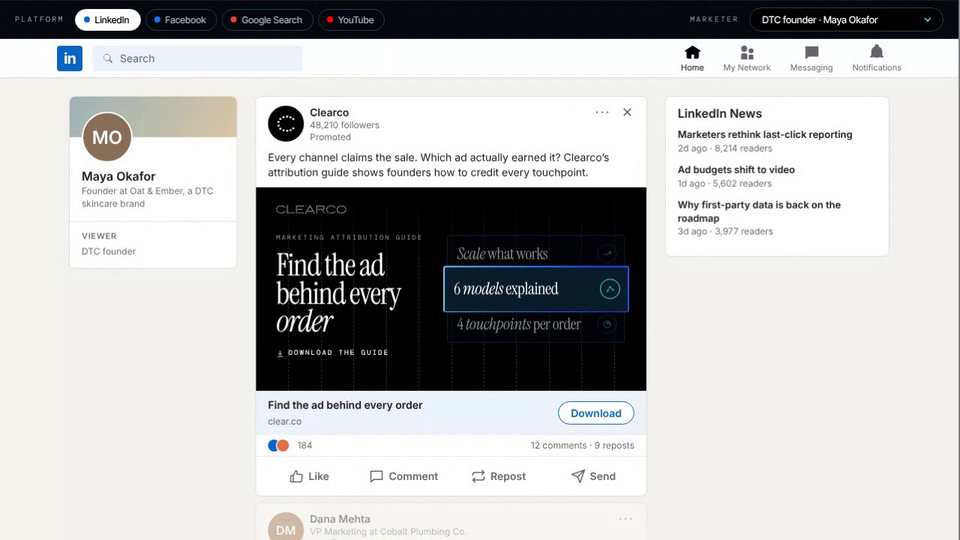
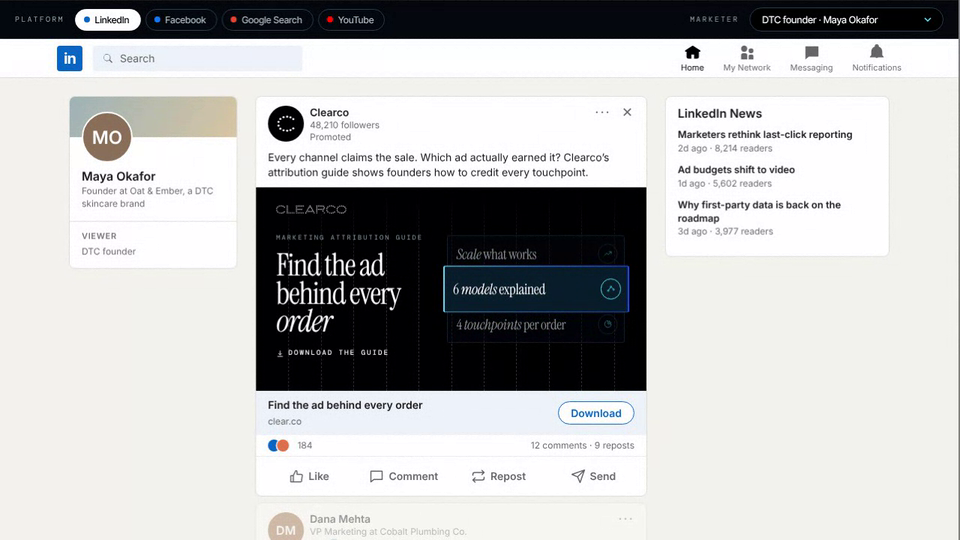
Clearco Paid Ad Pipeline: smoother rolodex (transform and opacity only), smaller value chip text
Claude-Session: https://claude.ai/code/session_01AHeBdxfESGkB61WPERPkmT

Changed region(s): [[0.4688, 0.4444, 0.6562, 0.563], [0.4688, 0.5926, 0.625, 0.6222]]

diff --git a/clearco-paid-ad-pipeline/index.html b/clearco-paid-ad-pipeline/index.html
@@ -59,26 +59,27 @@ nav.back span{color:#6e6e6e}nav.back b{font-weight:500;color:#fff;overflow:hidde
 .cr .go svg{width:2cqw;height:2cqw}
 .cr .stage{position:absolute;right:0;top:0;width:50cqw;height:100%;container-type:inline-size}
 .cr .stage>*{pointer-events:none}
-/* the three cards as a rolodex: the middle one is the prominent one; each step the bottom card moves up to the middle, the middle to the top, and the top fades out and returns at the bottom */
-.cr .bl{position:absolute;left:-4cqw;right:9cqw;top:50%;height:40cqw;margin-top:-20cqw;display:flex;align-items:center;background:rgba(4,10,16,.94);border:1px solid #24465c;border-radius:3px;padding:0 17cqw 0 5cqw;color:#fff;opacity:0;transform:translateY(13cqw) scale(.96);transition:transform 1.1s cubic-bezier(.45,0,.15,1),height 1.1s cubic-bezier(.45,0,.15,1),margin-top 1.1s cubic-bezier(.45,0,.15,1),opacity .6s ease .1s,background .9s}
-.cr .bl>div{transition:transform 1.1s cubic-bezier(.45,0,.15,1)}
+/* the three cards as a rolodex: the middle one is the prominent one; each step the bottom card moves up to the middle, the middle to the top, and the top fades out and returns at the bottom. Only transform and opacity animate, so it stays smooth. */
+.cr .bl{position:absolute;left:-4cqw;right:9cqw;top:50%;height:40cqw;margin-top:-20cqw;display:flex;align-items:center;padding:0 17cqw 0 5cqw;color:#fff;opacity:0;transform:translateY(13cqw) scale(.96);transition:transform 1.2s cubic-bezier(.4,0,.2,1),opacity .6s ease .1s}
+.cr .bl .bx{position:absolute;inset:0;border:1px solid #24465c;border-radius:3px;background:rgba(4,10,16,.94);transition:transform 1.2s cubic-bezier(.4,0,.2,1),background .9s}
+.cr .bl>div{position:relative;transition:transform 1.2s cubic-bezier(.4,0,.2,1)}
 .cr .bl[data-p="0"]{transform:translateY(-8.5cqw) scale(.96);opacity:.55}
 .cr .bl[data-p="0"]>div{transform:translateY(-10cqw)}
-.cr .bl[data-p="1"]{height:24cqw;margin-top:-12cqw;transform:none;opacity:1;background:rgba(10,30,44,.97);z-index:2}
-.cr .bl[data-p="2"]{transform:translateY(8.5cqw) scale(.96);opacity:.55}
+.cr .bl[data-p="1"]{transform:none;opacity:1;z-index:2}
+.cr .bl[data-p="1"] .bx{transform:scaleY(.6);background:rgba(10,30,44,.97)}
+.cr .bl[data-p="2"]{transform:translateY(8.5cqw) scale(.96);opacity:.55;transition:transform .9s cubic-bezier(.2,.7,.2,1),opacity .55s ease}
 .cr .bl[data-p="2"]>div{transform:translateY(10cqw)}
-.cr .bl[data-p="x"]{transform:translateY(-16cqw) scale(.94);opacity:0;transition:transform .5s ease-in,opacity .3s ease}
+.cr .bl[data-p="x"]{transform:translateY(-16cqw) scale(.94);opacity:0;transition:transform 1.2s cubic-bezier(.4,0,.2,1),opacity .5s ease}
 .cr .bl[data-p="x"]>div{transform:translateY(-10cqw)}
-.cr .bl[data-p="r"]{transition:none}
-.cr .bl[data-p="r"]>div{transition:none}
-.cr .bl::before{content:"";position:absolute;inset:-1px;border-radius:inherit;padding:1.5px;background:linear-gradient(90deg,#2447f5,#3b8cff 25%,#62e6f3 50%,#3b8cff 75%,#2447f5) 0 0/200% 100%;-webkit-mask:linear-gradient(#000 0 0) content-box,linear-gradient(#000 0 0);-webkit-mask-composite:xor;mask:linear-gradient(#000 0 0) content-box exclude,linear-gradient(#000 0 0);opacity:0;transition:opacity .9s ease;pointer-events:none;animation:flow 6s linear infinite}
-.cr .bl[data-p="1"]::before{opacity:1}
+.cr .bl[data-p="r"],.cr .bl[data-p="r"] .bx,.cr .bl[data-p="r"]>div,.cr .bl[data-p="r"] .ic{transition:none}
+.cr .bl .bx::before{content:"";position:absolute;inset:-1px;border-radius:inherit;padding:1.5px;background:linear-gradient(90deg,#2447f5,#3b8cff 25%,#62e6f3 50%,#3b8cff 75%,#2447f5) 0 0/200% 100%;-webkit-mask:linear-gradient(#000 0 0) content-box,linear-gradient(#000 0 0);-webkit-mask-composite:xor;mask:linear-gradient(#000 0 0) content-box exclude,linear-gradient(#000 0 0);opacity:0;transition:opacity .9s ease;pointer-events:none;animation:flow 6s linear infinite}
+.cr .bl[data-p="1"] .bx::before{opacity:1}
 @keyframes flow{to{background-position:-200% 0}}
 .cr .bl[data-p="1"] .ic{border-color:var(--cyan)}
-.cr .bl[data-p="0"] .ic,.cr .bl[data-p="x"] .ic{top:calc(50% - 10cqw)}.cr .bl[data-p="2"] .ic{top:calc(50% + 10cqw)}
-@media(prefers-reduced-motion:reduce){.cr .bl,.cr .bl::before{transition:none;animation:none}}
-.cr .bl .ic{position:absolute;right:4cqw;top:50%;width:10.5cqw;height:10.5cqw;transform:translateY(-50%);padding:2.5cqw;border:1px solid #2b3d52;border-radius:50%;transition:border-color .9s,top 1.1s cubic-bezier(.45,0,.15,1);color:var(--cyan)}
-.cr .bl strong{display:block;font:400 8.6cqw/1.02 var(--serif);letter-spacing:-.02em}
+.cr .bl[data-p="0"] .ic,.cr .bl[data-p="x"] .ic{transform:translateY(-10cqw)}.cr .bl[data-p="2"] .ic{transform:translateY(10cqw)}
+@media(prefers-reduced-motion:reduce){.cr .bl,.cr .bl .bx,.cr .bl .bx::before,.cr .bl>div,.cr .bl .ic{transition:none;animation:none}}
+.cr .bl .ic{position:absolute;right:4cqw;top:50%;margin-top:-5.25cqw;width:10.5cqw;height:10.5cqw;padding:2.5cqw;border:1px solid #2b3d52;border-radius:50%;transition:border-color .9s,transform 1.2s cubic-bezier(.4,0,.2,1);color:var(--cyan)}
+.cr .bl strong{display:block;font:400 7.6cqw/1.02 var(--serif);letter-spacing:-.02em}
 .cr .bl strong i{color:#fff}
 .cr .bl p{white-space:nowrap;font:400 3.7cqw/1.35 var(--sans);color:#aebbc5;margin-top:1.4cqw}
 .cr .bl .sw{display:block}
@@ -438,9 +439,9 @@ tfoot td{font-weight:500;color:#fff;border-top:1px solid #3a4c60}
    <h4><span class="sw" id="crH"></span></h4>
    <span class="go"><svg viewBox="0 0 16 16" fill="none" stroke="currentColor" stroke-width="1.4" aria-hidden="true"><path d="M8 2v9M4.5 7.5 8 11l3.5-3.5M2.5 14h11"/></svg>Download the guide</span></div>
   <div class="stage" aria-hidden="true">
-   <div class="bl" id="bl1"><svg class="ic" viewBox="0 0 24 24" fill="none" stroke="currentColor" stroke-width="1.5" stroke-linecap="round" stroke-linejoin="round" aria-hidden="true"><circle cx="5" cy="17" r="2"/><circle cx="12" cy="7" r="2"/><circle cx="19" cy="14" r="2"/><path d="M6.2 15.3l4.6-6.6M13.8 8.4l4 4.1"/></svg><div><strong class="sw" id="b1h"></strong></div></div>
-   <div class="bl" id="bl2"><svg class="ic" viewBox="0 0 24 24" fill="none" stroke="currentColor" stroke-width="1.5" stroke-linecap="round" stroke-linejoin="round" aria-hidden="true"><path d="M12 3a9 9 0 1 0 9 9h-9z"/><path d="M15 3.5A9 9 0 0 1 20.5 9H15z"/></svg><div><strong class="sw" id="b2h"></strong></div></div>
-   <div class="bl" id="bl3"><svg class="ic" viewBox="0 0 24 24" fill="none" stroke="currentColor" stroke-width="1.5" stroke-linecap="round" stroke-linejoin="round" aria-hidden="true"><path d="M3 17l6-6 4 4 8-8"/><path d="M15 7h6v6"/></svg><div><strong class="sw" id="b3h"></strong></div></div>
+   <div class="bl" id="bl1"><i class="bx"></i><svg class="ic" viewBox="0 0 24 24" fill="none" stroke="currentColor" stroke-width="1.5" stroke-linecap="round" stroke-linejoin="round" aria-hidden="true"><circle cx="5" cy="17" r="2"/><circle cx="12" cy="7" r="2"/><circle cx="19" cy="14" r="2"/><path d="M6.2 15.3l4.6-6.6M13.8 8.4l4 4.1"/></svg><div><strong class="sw" id="b1h"></strong></div></div>
+   <div class="bl" id="bl2"><i class="bx"></i><svg class="ic" viewBox="0 0 24 24" fill="none" stroke="currentColor" stroke-width="1.5" stroke-linecap="round" stroke-linejoin="round" aria-hidden="true"><path d="M12 3a9 9 0 1 0 9 9h-9z"/><path d="M15 3.5A9 9 0 0 1 20.5 9H15z"/></svg><div><strong class="sw" id="b2h"></strong></div></div>
+   <div class="bl" id="bl3"><i class="bx"></i><svg class="ic" viewBox="0 0 24 24" fill="none" stroke="currentColor" stroke-width="1.5" stroke-linecap="round" stroke-linejoin="round" aria-hidden="true"><path d="M3 17l6-6 4 4 8-8"/><path d="M15 7h6v6"/></svg><div><strong class="sw" id="b3h"></strong></div></div>
   </div>
  </a>
 </section>
@@ -726,7 +727,7 @@ const BL=[1,2,3].map(n=>$('bl'+n));
 const rolo={order:[0,1,2],timer:0,tk:0,
  set(){this.order.forEach((c,p)=>{BL[c].dataset.p='r'});void BL[0].offsetWidth;this.order.forEach((c,p)=>{BL[c].dataset.p=p})},
  step(){const [top,mid,bot]=this.order,tk=this.tk;BL[top].dataset.p='x';BL[mid].dataset.p=0;BL[bot].dataset.p=1;this.order=[mid,bot,top];
-  setTimeout(()=>{if(tk!==this.tk)return;BL[top].dataset.p='r';void BL[top].offsetWidth;BL[top].dataset.p=2},300)},
+  setTimeout(()=>{if(tk!==this.tk)return;BL[top].dataset.p='r';void BL[top].offsetWidth;BL[top].dataset.p=2},600)},
  start(){this.stop();this.order=[2,0,1];this.set();if(!matchMedia('(prefers-reduced-motion: reduce)').matches)this.timer=setInterval(()=>this.step(),3400)},
  stop(){clearInterval(this.timer);this.tk++}};
 window.__pp={rolo,go,setMarketer:i=>setMarketer(i),setPlatform:i=>setPlatform(i)};
